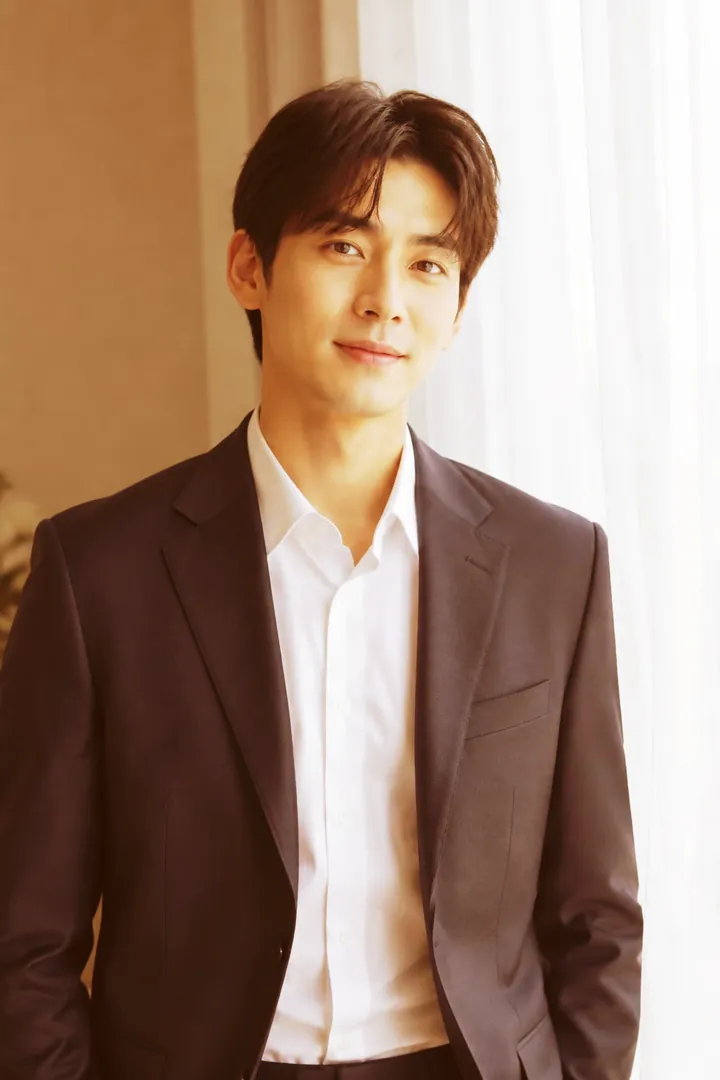
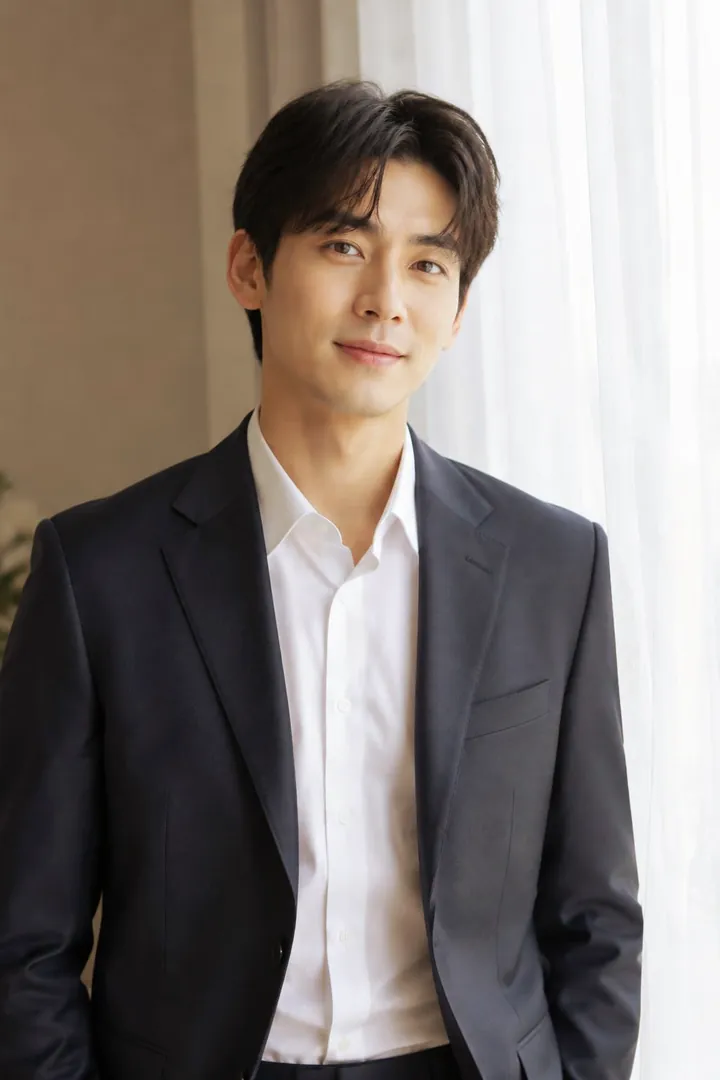
layeris portraits: gentler looks, seamless pairs, two new photos
- The docs' recipes were too dramatic on portraits, so each photo gets
  its own light look in a few layeris calls: blend opacities of
  0.1-0.35, curves that stay near the diagonal, small saturation moves.
  Only Warm Up Skin Tones is a docs recipe unchanged. The section text
  and caption now say "light look" rather than "recipe".
- Each pair's two photos meet edge to edge with square corners.
- The flight attendant (07) and singer (10) are regenerated from the
  documentary film brief that fixed the camel-coat portrait.

Claude-Session: https://claude.ai/code/session_01KoAbDWekLLnFvcByxxrYCH

diff --git a/components/embeds/layeris-portraits.ts b/components/embeds/layeris-portraits.ts
@@ -1,14 +1,14 @@
 // Generated by the layeris portrait script (scratchpad scripts/portraits_process.py).
-// Ten GPT Image 2.5 portraits: each original (`before`) and its look (`after`), rendered by layeris
+// Ten GPT Image 2.5 portraits: each original (`before`) and a light look (`after`), rendered by layeris
 // 0.4.0 running the `code` verbatim. Do not edit by hand.
 
 export const portraits = [
   {
     "slug": "linen",
     "style": "Minimal magazine",
-    "look": "Faded Film",
+    "look": "Soft Film",
     "alt": "A woman in an ivory linen shirt against warm-grey paper",
-    "code": "image = LayerImage.from_file(\"linen.jpg\")\n(image.curve(\"rgb\", [0.15, 0.32, 0.55, 0.76, 0.9])\n      .saturation(-0.25)\n      .soft_light(\"#f0cf9c\", opacity=0.7))",
+    "code": "image = LayerImage.from_file(\"linen.jpg\")\n(image.curve(\"rgb\", [0.04, 0.28, 0.53, 0.78, 0.97])\n      .saturation(-0.1)\n      .soft_light(\"#f0cf9c\", opacity=0.3))",
     "before": {
       "src": "/media/layeris/portraits/linen-before.webp",
       "width": 720,
@@ -23,9 +23,9 @@ export const portraits = [
   {
     "slug": "turtleneck",
     "style": "Minimal magazine",
-    "look": "Cyanotype",
+    "look": "Cool Matte",
     "alt": "A man in a charcoal turtleneck on a wooden stool, side-lit",
-    "code": "image = LayerImage.from_file(\"turtleneck.jpg\")\n(image.grayscale()\n      .curve(\"rgb\", [0, 0.1, 0.55, 0.9, 1])\n      .curve(\"r\", [0.02, 0.85])\n      .curve(\"g\", [0.15, 0.95])\n      .curve(\"b\", [0.35, 1.0]))",
+    "code": "image = LayerImage.from_file(\"turtleneck.jpg\")\n(image.curve(\"rgb\", [0.08, 0.3, 0.53, 0.76, 0.96])\n      .curve(\"b\", [0.06, 0.56, 1])\n      .saturation(-0.2))",
     "before": {
       "src": "/media/layeris/portraits/turtleneck-before.webp",
       "width": 720,
@@ -40,9 +40,9 @@ export const portraits = [
   {
     "slug": "camel-coat",
     "style": "Minimal magazine",
-    "look": "Instant Film",
-    "alt": "A woman in a camel coat leaning on a sage wall in window light",
-    "code": "image = LayerImage.from_file(\"camel-coat.jpg\")\n(image.lighten(\"#2b2d4a\")\n      .overlay(\"#ffb870\", opacity=0.5)\n      .saturation(-0.25)\n      .curve(\"rgb\", [0, 0.27, 0.55, 0.8, 0.95]))",
+    "look": "Warm Window",
+    "alt": "A woman in a camel coat laughing by a window",
+    "code": "image = LayerImage.from_file(\"camel-coat.jpg\")\n(image.overlay(\"#ffb870\", opacity=0.3)\n      .curve(\"r\", [0, 0.53, 1])\n      .curve(\"rgb\", [0.04, 0.27, 0.52, 0.77, 0.97]))",
     "before": {
       "src": "/media/layeris/portraits/camel-coat-before.webp",
       "width": 720,
@@ -57,9 +57,9 @@ export const portraits = [
   {
     "slug": "veil",
     "style": "Wedding studio",
-    "look": "Pastel Dream",
+    "look": "Blush",
     "alt": "A bride in a satin gown and long veil by white curtains",
-    "code": "image = LayerImage.from_file(\"veil.jpg\")\n(image.lightness(0.18)\n      .saturation(-0.2)\n      .screen(\"#ffc4d6\", opacity=0.35))",
+    "code": "image = LayerImage.from_file(\"veil.jpg\")\n(image.soft_light(\"#ffb3c8\", opacity=0.35)\n      .curve(\"rgb\", [0.04, 0.27, 0.51, 0.76, 0.98]))",
     "before": {
       "src": "/media/layeris/portraits/veil-before.webp",
       "width": 720,
@@ -74,9 +74,9 @@ export const portraits = [
   {
     "slug": "groom",
     "style": "Wedding studio",
-    "look": "Golden Glow",
+    "look": "Late Light",
     "alt": "A groom in a navy suit beside a curtained window",
-    "code": "image = LayerImage.from_file(\"groom.jpg\")\n(image.screen(\"#3a1800\", opacity=0.7)\n      .overlay(\"#ff9d3b\", opacity=0.25)\n      .curve(\"rgb\", [0, 0.18, 0.5, 0.82, 1]))",
+    "code": "image = LayerImage.from_file(\"groom.jpg\")\n(image.overlay(\"#ff9d3b\", opacity=0.12)\n      .curve(\"r\", [0, 0.53, 1])\n      .curve(\"b\", [0, 0.47, 1]))",
     "before": {
       "src": "/media/layeris/portraits/groom-before.webp",
       "width": 720,
@@ -91,9 +91,9 @@ export const portraits = [
   {
     "slug": "hanbok-bride",
     "style": "Wedding studio",
-    "look": "Sepia Print",
+    "look": "Warm Up Skin Tones",
     "alt": "A bride in a pale pink and ivory wedding hanbok, seated",
-    "code": "image = LayerImage.from_file(\"hanbok-bride.jpg\")\n(image.grayscale()\n      .curve(\"r\", [0.16, 0.62, 1.0])\n      .curve(\"g\", [0.1, 0.5, 0.92])\n      .curve(\"b\", [0.06, 0.36, 0.78]))",
+    "code": "image = LayerImage.from_file(\"hanbok-bride.jpg\")\n(image.curve(\"r\", [0, 0.58, 1])\n      .curve(\"b\", [0, 0.43, 0.95])\n      .saturation(0.1))",
     "before": {
       "src": "/media/layeris/portraits/hanbok-bride-before.webp",
       "width": 720,
@@ -108,9 +108,9 @@ export const portraits = [
   {
     "slug": "cabin-crew",
     "style": "Uniform",
-    "look": "Cross-Processed",
+    "look": "Soft Contrast",
     "alt": "A flight attendant in a navy uniform and scarf on pale blue",
-    "code": "image = LayerImage.from_file(\"cabin-crew.jpg\")\n(image.curve(\"r\", [0, 0.15, 0.55, 0.9, 1])\n      .curve(\"g\", [0, 0.2, 0.55, 0.85, 1])\n      .curve(\"b\", [0.22, 0.35, 0.48, 0.6, 0.72]))",
+    "code": "image = LayerImage.from_file(\"cabin-crew.jpg\")\n(image.curve(\"rgb\", [0, 0.21, 0.5, 0.79, 1])\n      .saturation(-0.12)\n      .soft_light(\"#ffe2c4\", opacity=0.25))",
     "before": {
       "src": "/media/layeris/portraits/cabin-crew-before.webp",
       "width": 720,
@@ -125,9 +125,9 @@ export const portraits = [
   {
     "slug": "chef",
     "style": "Uniform",
-    "look": "Teal & Orange",
+    "look": "Light Teal & Orange",
     "alt": "A chef in a white double-breasted jacket, arms folded",
-    "code": "image = LayerImage.from_file(\"chef.jpg\")\n(image.curve(\"r\", [0, 0.1, 0.5, 0.9, 1])\n      .curve(\"b\", [0.18, 0.38, 0.5, 0.6, 0.8])\n      .contrast(1.1)\n      .saturation(0.2))",
+    "code": "image = LayerImage.from_file(\"chef.jpg\")\n(image.curve(\"r\", [0, 0.22, 0.5, 0.78, 1])\n      .curve(\"b\", [0.05, 0.28, 0.5, 0.72, 0.95])\n      .contrast(1.05))",
     "before": {
       "src": "/media/layeris/portraits/chef-before.webp",
       "width": 720,
@@ -142,9 +142,9 @@ export const portraits = [
   {
     "slug": "actor",
     "style": "Close-up",
-    "look": "Noir",
+    "look": "Silver",
     "alt": "An actor's close-up in low-key light against a dark backdrop",
-    "code": "image = LayerImage.from_file(\"actor.jpg\")\n(image.grayscale()\n      .curve(\"rgb\", [0, 0.04, 0.3, 0.75, 1])\n      .contrast(1.2))",
+    "code": "image = LayerImage.from_file(\"actor.jpg\")\n(image.saturation(-0.7)\n      .curve(\"rgb\", [0.07, 0.29, 0.53, 0.77, 0.97]))",
     "before": {
       "src": "/media/layeris/portraits/actor-before.webp",
       "width": 720,
@@ -159,9 +159,9 @@ export const portraits = [
   {
     "slug": "singer",
     "style": "Close-up",
-    "look": "Neon Nights",
-    "alt": "A singer's close-up with long dark hair against mid-grey",
-    "code": "image = LayerImage.from_file(\"singer.jpg\")\n(image.curve(\"b\", [0.12, 0.45, 0.75, 1])\n      .soft_light(\"#ff2fb3\", opacity=0.6)\n      .saturation(0.3)\n      .contrast(1.1))",
+    "look": "Rose",
+    "alt": "A singer with a layered wolf cut against warm grey",
+    "code": "image = LayerImage.from_file(\"singer.jpg\")\n(image.soft_light(\"#ffa3b8\", opacity=0.22)\n      .curve(\"rgb\", [0.03, 0.26, 0.51, 0.76, 0.98]))",
     "before": {
       "src": "/media/layeris/portraits/singer-before.webp",
       "width": 720,

diff --git a/lib/content/layeris.ts b/lib/content/layeris.ts
@@ -202,13 +202,13 @@ export const layeris: Project = {
       type: "text",
       label: "Portraits",
       paragraphs: [
-        "Ten studio portraits, from a minimal magazine shoot and a Korean wedding studio to uniforms and close-ups, each through one of the recipes in the docs.",
+        "Ten studio portraits, from a minimal magazine shoot and a Korean wedding studio to uniforms and close-ups, each given a light look in a few layeris calls.",
       ],
     },
     {
       type: "embed",
       name: "portraits",
-      caption: "Each portrait before and after its recipe, beside the code that made it.",
+      caption: "Each portrait before and after its look, beside the code that made it.",
     },
     {
       type: "text",

diff --git a/components/embeds/layeris.module.css b/components/embeds/layeris.module.css
@@ -284,10 +284,15 @@
   margin: 0;
 }
 
+/* The two photos meet edge to edge, square-cornered, so they read as one
+   comparison. */
 .pair {
   display: grid;
   grid-template-columns: repeat(2, minmax(0, 1fr));
-  gap: 12px;
+}
+
+.pair .tile {
+  border-radius: 0;
 }
 
 .pairCode {
